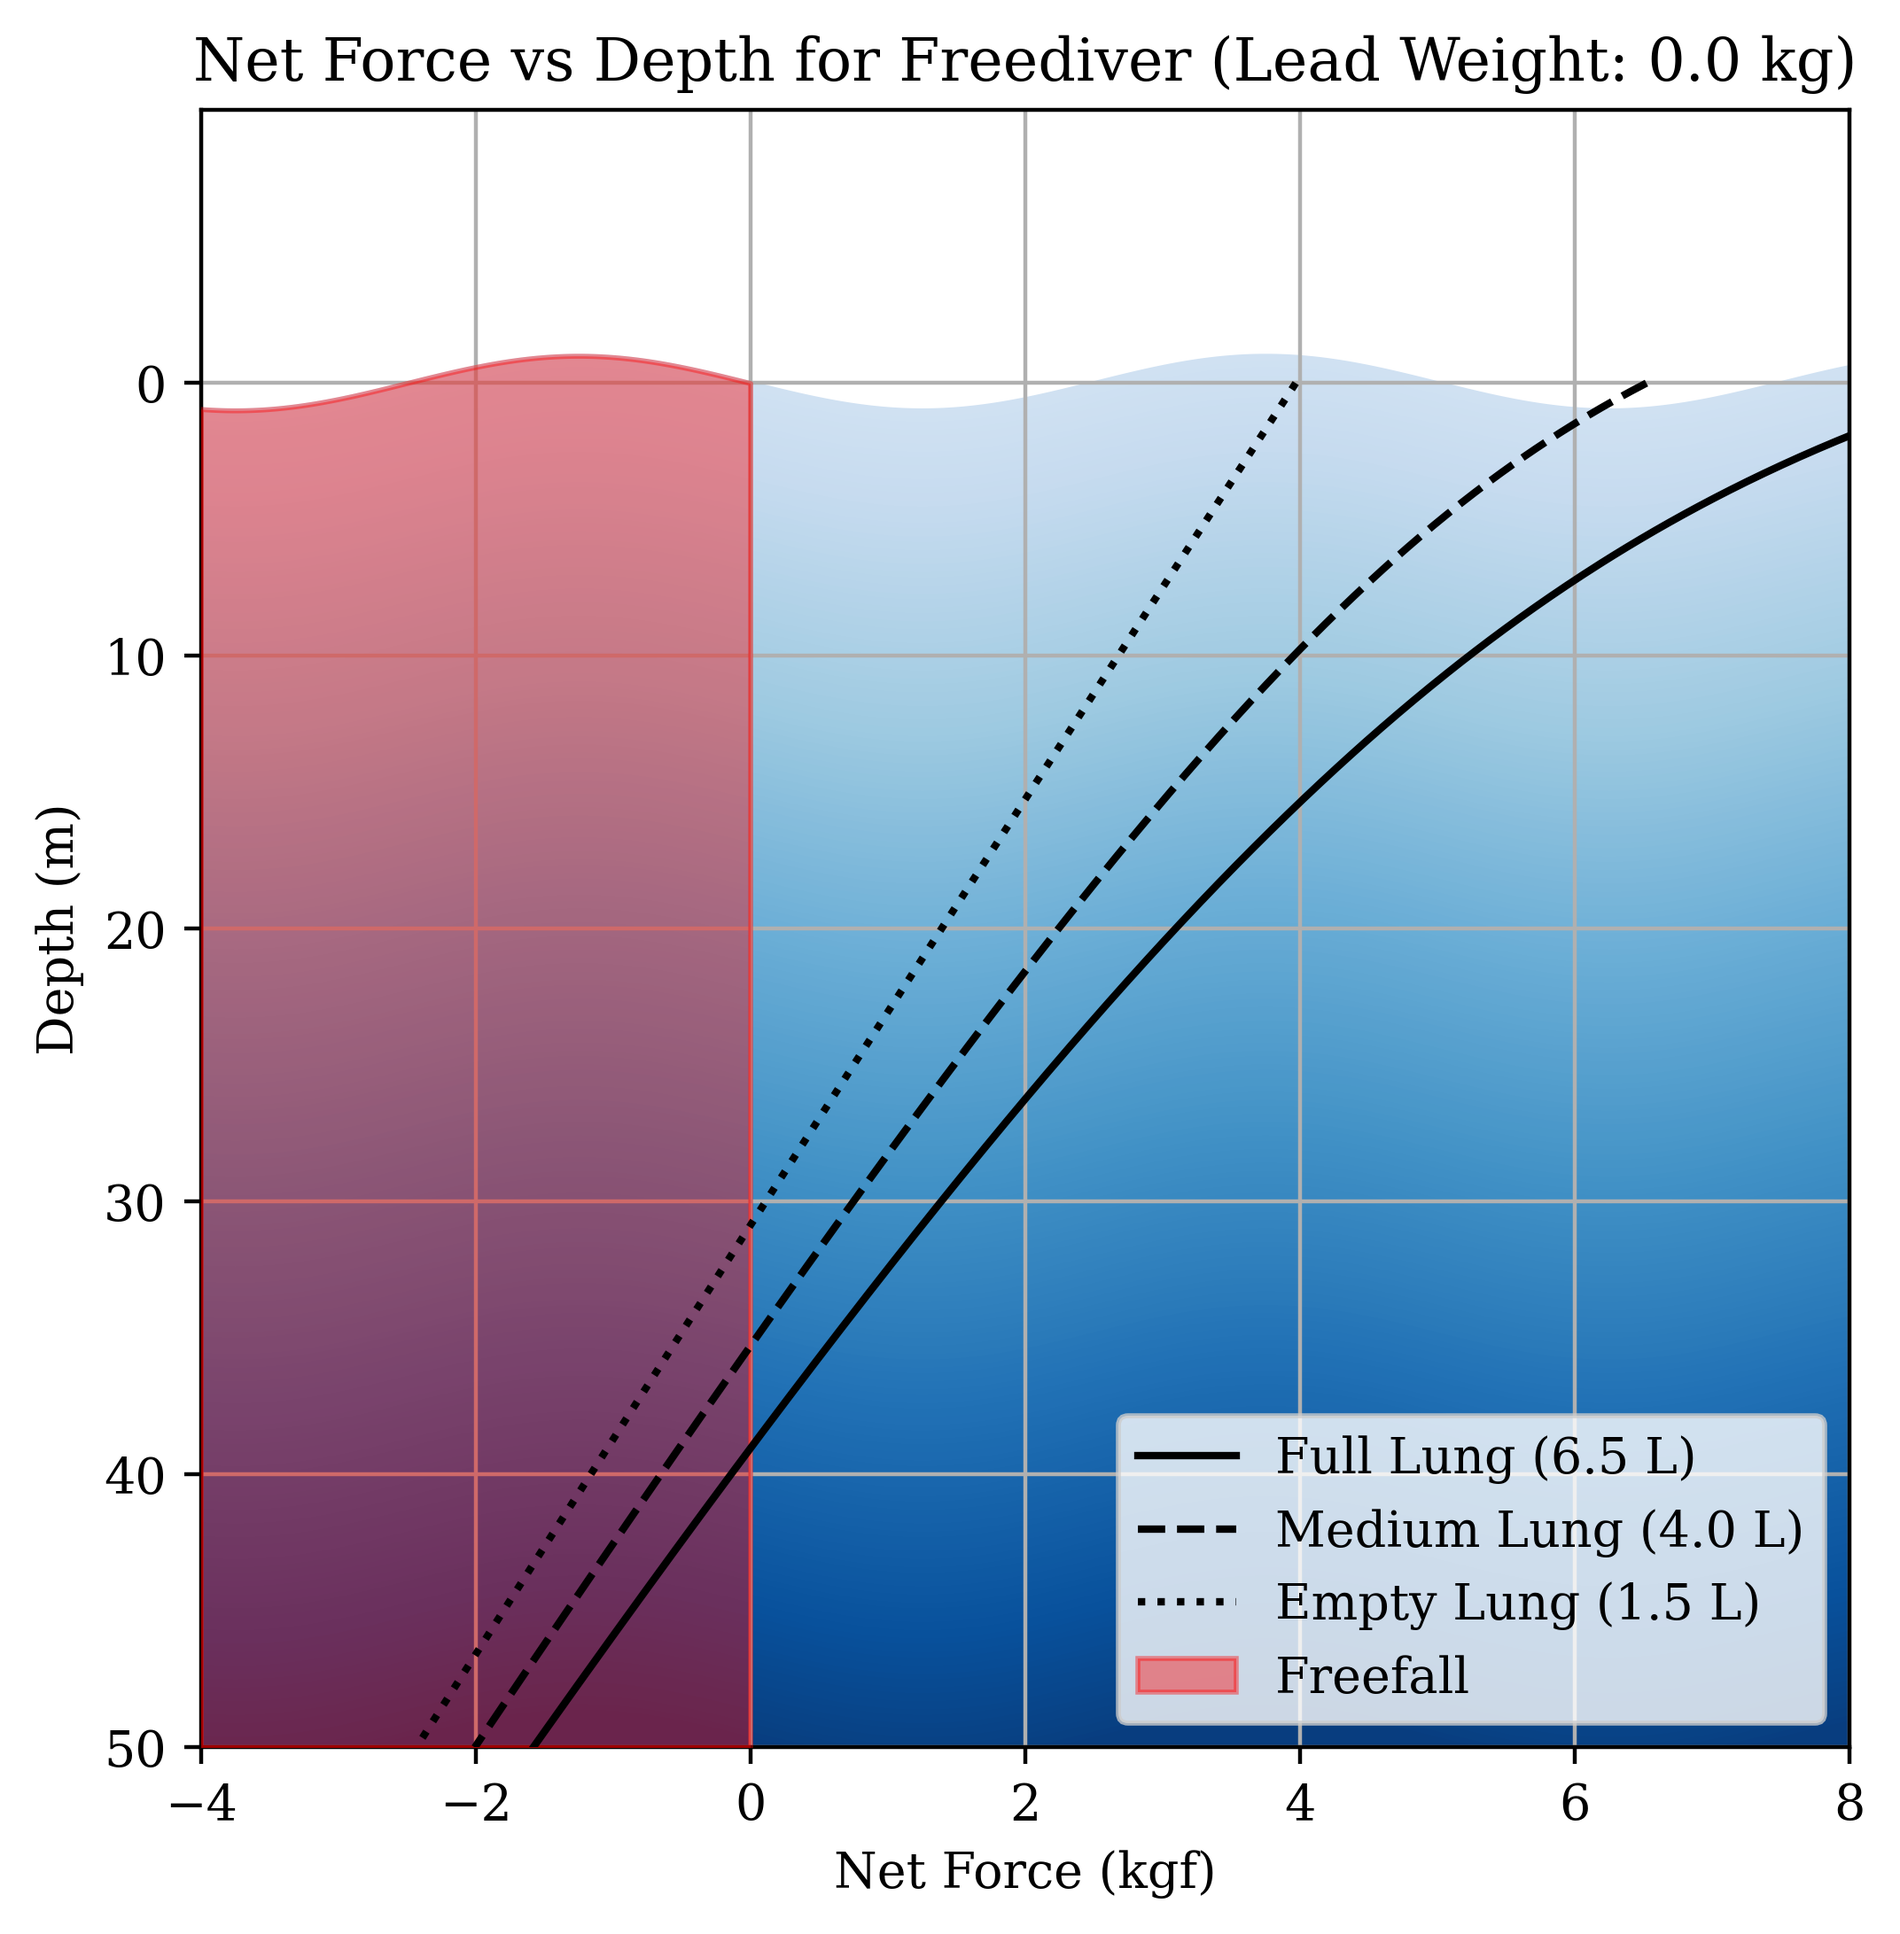
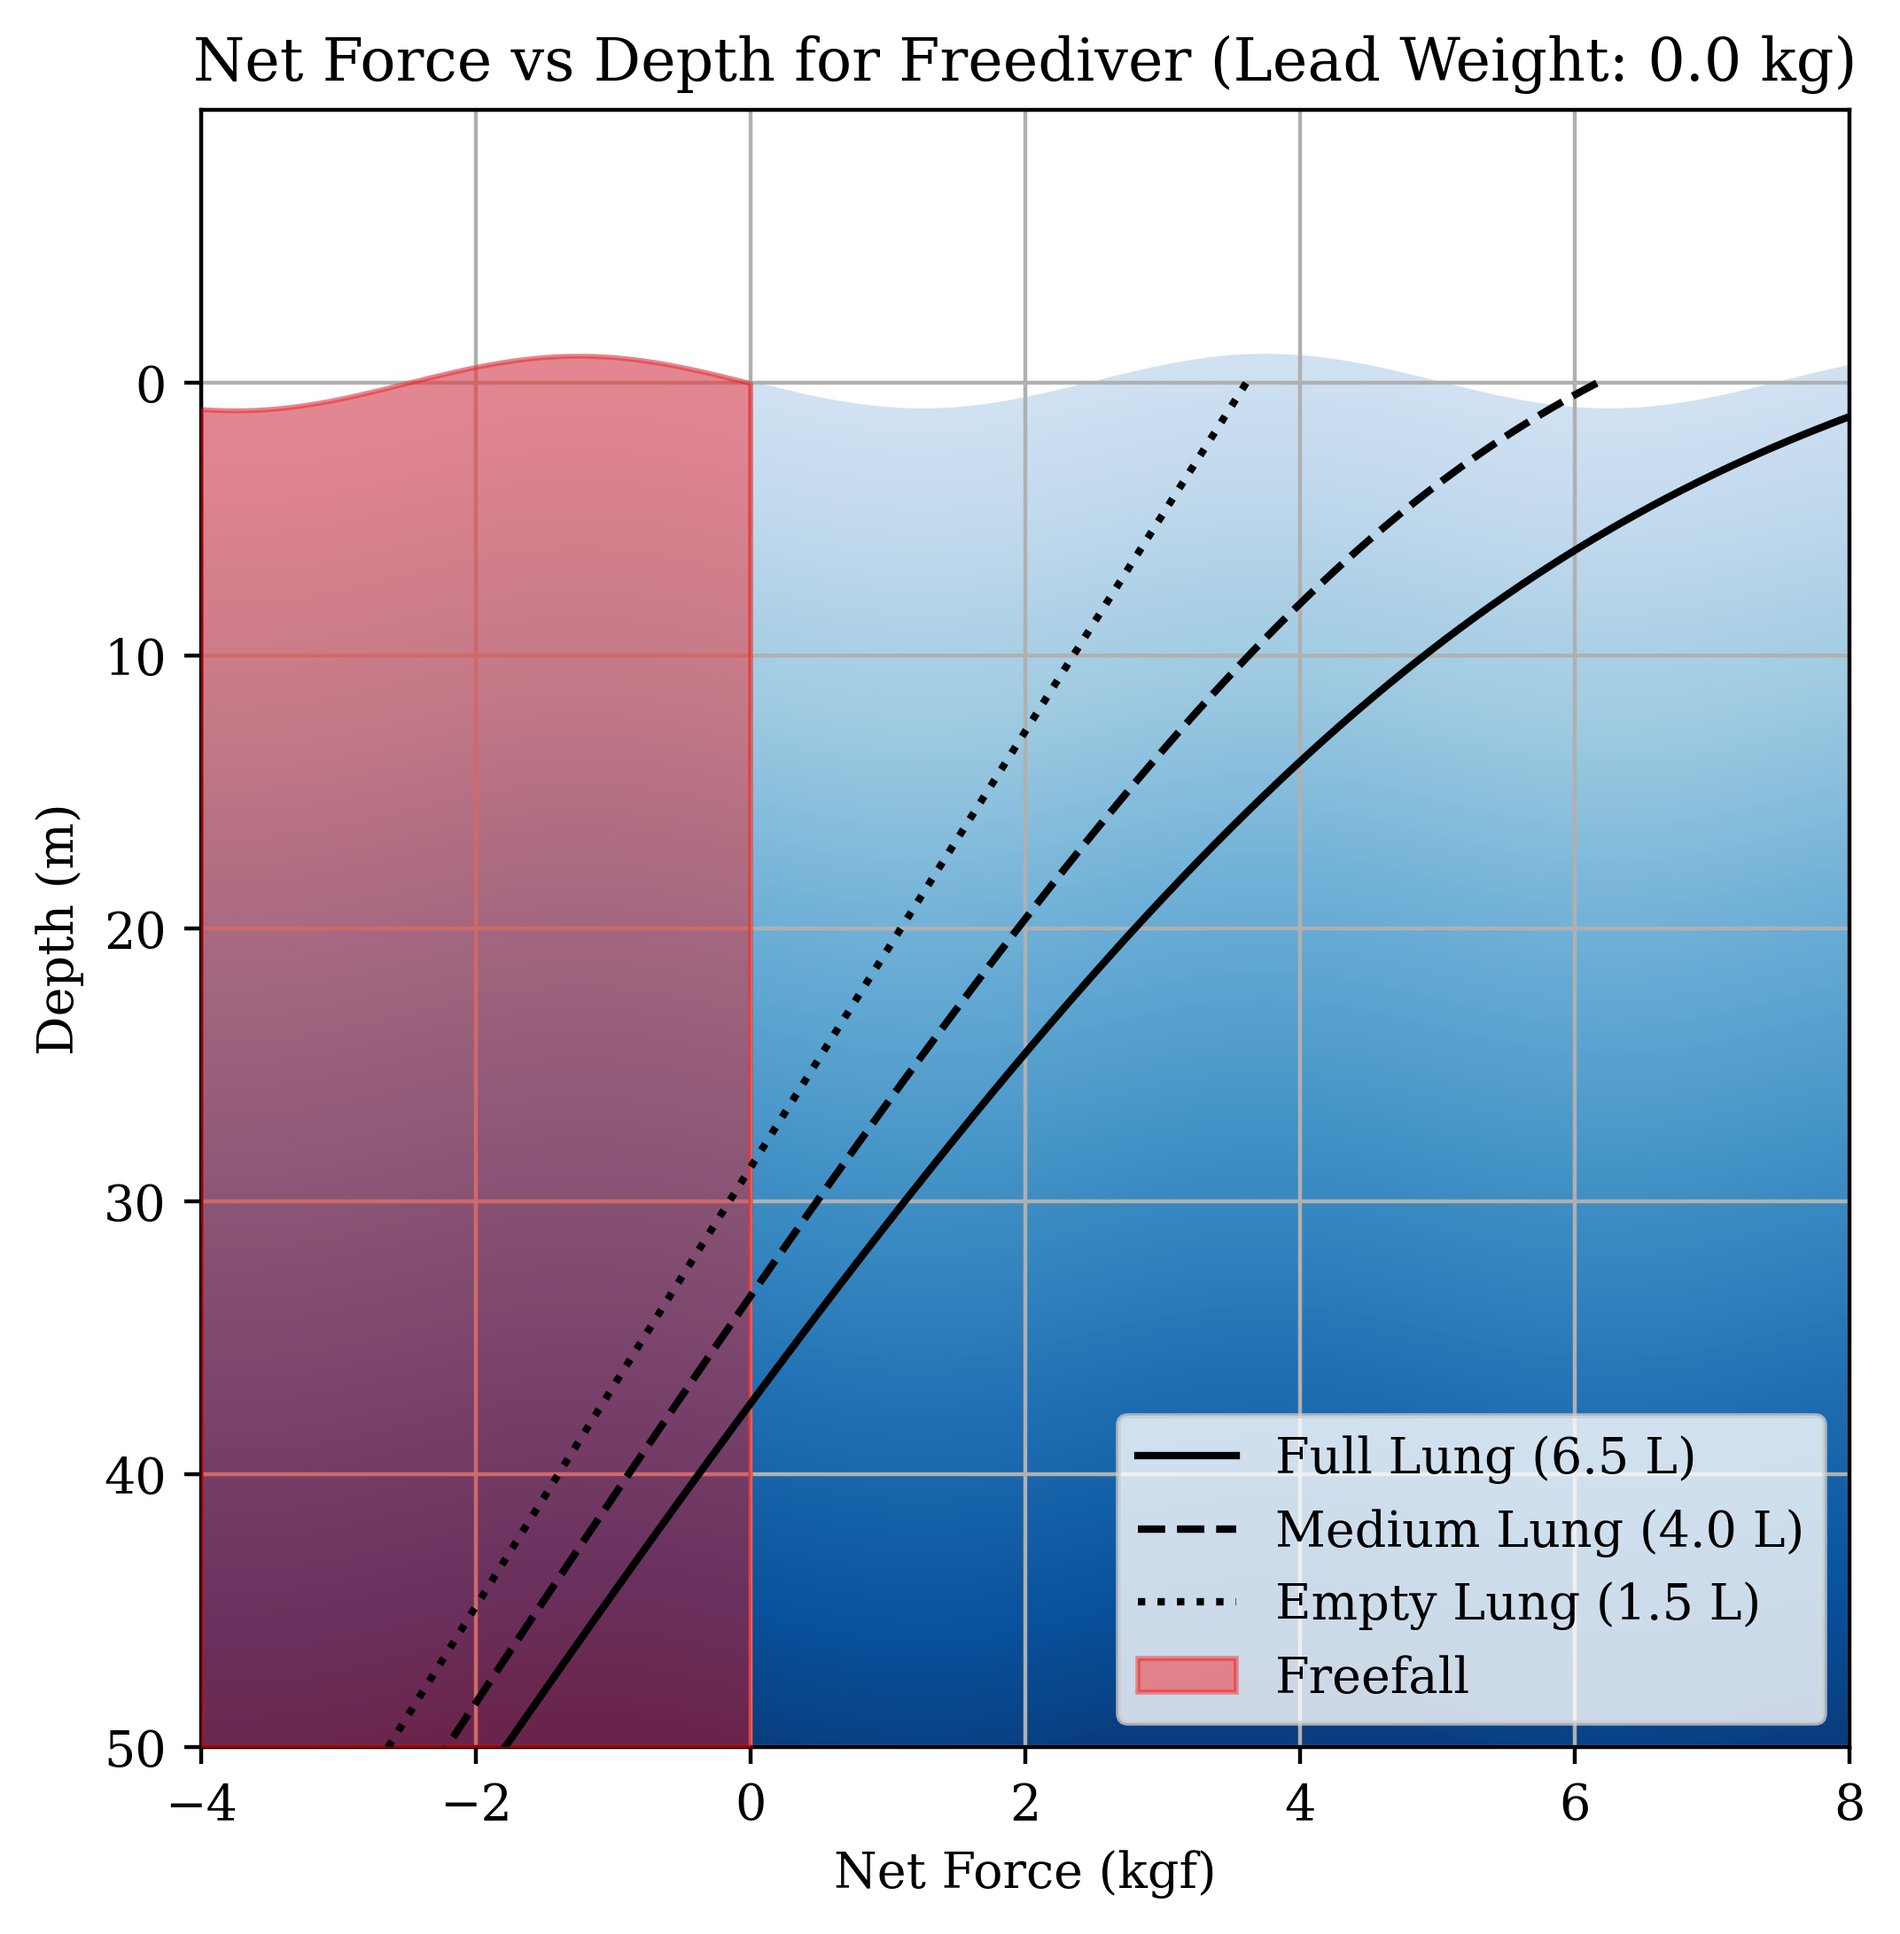
Added energy usage calculator and improved physics and documentation

diff --git a/freediving.py b/freediving.py
@@ -12,7 +12,7 @@ def get_salinity_and_density(water_type, temperature):
     return calculate_seawater_density(salinity, temperature) * 1000  # Convert to kg/m^3
 
 
-def plot_buoyancy_force_kgf(params):
+def plot_net_force_kgf(params, plot=False):
     # Unpack configurable x and y limits
     x_limits = params["x_limits"]
     y_limits = params["y_limits"]
@@ -31,7 +31,9 @@ def plot_buoyancy_force_kgf(params):
         "empty_lung": {"linestyle": ":", "label": f"Empty Lung ({params['lung_volumes']['empty_lung']} L)"},
     }
 
-    plt.figure(figsize=(6, 6))
+    if plot:
+        plt.figure(figsize=(6, 6))
+
     net_force_curves = {}
 
     for condition, lung_volume in params["lung_volumes"].items():
@@ -55,17 +57,19 @@ def plot_buoyancy_force_kgf(params):
                 snorkel_volume = params["snorkel_mask_volume"]
                 weight_volume = params["lead_weight"] / 11340  # Volume of lead in m^3
 
+                # Total displacement volume includes lead volume (since it displaces water)
                 total_displacement_volume = (
-                    volume_fat / (1 + d * 0.1/100)
-                    + volume_lean / (1 + d * 0.05/100)
+                    volume_fat / (1 + d * 0.1 / 100)
+                    + volume_lean / (1 + d * 0.05 / 100)
                     + lung_volume_at_depth
                     + wetsuit_volume_at_depth
                     + snorkel_volume
-                ) * 1e-6 - weight_volume  # Convert to m^3, subtract weight volume
+                    + weight_volume * 1e6  # Add lead displacement (convert to cm^3)
+                ) * 1e-6  # Convert total to m^3
 
                 # Calculate forces
-                F_buoyancy = total_displacement_volume * params["seawater_density"] * 9.81  # Newtons
-                F_weight = (params["mass"] + params["wetsuit_mass"] + params["lead_weight"]) * 9.81  # Newtons
+                F_buoyancy = total_displacement_volume * params["seawater_density"] * 9.81  # Buoyant force in N
+                F_weight = (params["mass"] + params["wetsuit_mass"] + params["lead_weight"]) * 9.81  # Gravitational force in N
                 net_force_kgf = (F_buoyancy - F_weight) / 9.81  # Convert to kgf
 
             net_forces_kgf.append(net_force_kgf)
@@ -73,69 +77,77 @@ def plot_buoyancy_force_kgf(params):
         net_force_curves[condition] = net_forces_kgf
 
         # Plot net force vs. depth
-        plt.plot(
-            net_forces_kgf,
-            depths,
-            styles[condition]["linestyle"],
-            label=styles[condition]["label"],
-            color="black",
-            zorder=9,
-        )
 
-    # Add wavy water surface
-    x_waves = np.linspace(x_limits[0], x_limits[1], 1000)
-    y_waves = 1.0 * np.sin(2 * np.pi * x_waves / 5)
+        if plot:
+            plt.plot(
+                net_forces_kgf,
+                depths,
+                styles[condition]["linestyle"],
+                label=styles[condition]["label"],
+                color="black",
+                zorder=9,
+            )
 
-    # Create gradient shading for the ocean below the wavy surface
-    gradient_depths = np.linspace(0, params["y_limits"][0], 500)  # Depth levels for gradient
-    gradient_colors = plt.cm.Blues(np.linspace(0.2, 0.95, len(gradient_depths)))  # Gradient colors
 
-    # Plot gradient shading
-    for i in range(len(gradient_depths) - 1):
+    if plot:
+
+        # Add wavy water surface
+        x_waves = np.linspace(x_limits[0], x_limits[1], 1000)
+        y_waves = 1.0 * np.sin(2 * np.pi * x_waves / 5)
+
+        # Create gradient shading for the ocean below the wavy surface
+        gradient_depths = np.linspace(0, params["y_limits"][0], 500)  # Depth levels for gradient
+        gradient_colors = plt.cm.Blues(np.linspace(0.2, 0.95, len(gradient_depths)))  # Gradient colors
+
+        # Plot gradient shading
+        for i in range(len(gradient_depths) - 1):
+            plt.fill_between(
+                x_waves,
+                y_waves + gradient_depths[i],  # Top boundary: wavy surface + current depth
+                params["y_limits"][0],  # Bottom boundary: deepest depth (e.g., 100 m)
+                color=gradient_colors[i],  # Gradient color for this level
+                zorder=0,
+            )
+
+        # Add freefall shading below the wavy surface
+        freefall_x = x_waves[x_waves <= 0]  # Restrict x to the freefall region (e.g., -5 to 0)
+        freefall_y_top = y_waves[:len(freefall_x)]  # Corresponding y values for the same region
+
         plt.fill_between(
-            x_waves,
-            y_waves + gradient_depths[i],  # Top boundary: wavy surface + current depth
+            freefall_x,
+            freefall_y_top,         # Top boundary: wavy surface
             params["y_limits"][0],  # Bottom boundary: deepest depth (e.g., 100 m)
-            color=gradient_colors[i],  # Gradient color for this level
-            zorder=0,
+            color="red",
+            alpha=0.4,
+            zorder=7,
+            label="Freefall",
         )
 
-    # Add freefall shading below the wavy surface
-    freefall_x = x_waves[x_waves <= 0]  # Restrict x to the freefall region (e.g., -5 to 0)
-    freefall_y_top = y_waves[:len(freefall_x)]  # Corresponding y values for the same region
+        # Formatting
+        plt.gca().invert_yaxis()  # Invert y-axis to make depth positive downward
+        yticks = np.arange(0, abs(params["y_limits"][0]) + 1, 10)  # Generate ticks at intervals of 10
+        plt.yticks(yticks)  # Set the y-ticks
+        plt.xlabel("Net Force (kgf)")
+        plt.ylabel("Depth (m)")
+        plt.title(f"Net Force vs Depth for Freediver (Lead Weight: {params['lead_weight']} kg)")
+        plt.legend(loc="lower right")
+        plt.grid()
+        plt.xlim(x_limits)
+        plt.ylim(y_limits)
+        plt.savefig("example_result.pdf", dpi=400, bbox_inches="tight")
+        plt.savefig("example_result.png", dpi=400, bbox_inches="tight")
+        plt.show()
 
-    plt.fill_between(
-        freefall_x,
-        freefall_y_top,         # Top boundary: wavy surface
-        params["y_limits"][0],  # Bottom boundary: deepest depth (e.g., 100 m)
-        color="red",
-        alpha=0.4,
-        zorder=7,
-        label="Freefall",
-    )
 
-    # Formatting
-    plt.gca().invert_yaxis()  # Invert y-axis to make depth positive downward
-    yticks = np.arange(0, abs(params["y_limits"][0]) + 1, 10)  # Generate ticks at intervals of 10
-    plt.yticks(yticks)  # Set the y-ticks
-    plt.xlabel("Net Force (kgf)")
-    plt.ylabel("Depth (m)")
-    plt.title(f"Net Force vs Depth for Freediver (Lead Weight: {params['lead_weight']} kg)")
-    plt.legend(loc="lower right")
-    plt.grid()
-    plt.xlim(x_limits)
-    plt.ylim(y_limits)
-    plt.savefig("example_result.pdf", dpi=400, bbox_inches="tight")
-    plt.savefig("example_result.png", dpi=400, bbox_inches="tight")
-    plt.show()
+    return depths, net_force_curves
 
 
 
 # Example parameters
 params = {
-    "mass": 73,  # kg
+    "mass": 70,  # mass of diver and glasses, excluding wetsuit and lead mass, in kg
     "height": 1.84,  # meters (for context only)
-    "body_fat_percentage": 0.23,  # 0.23 is a fudge factor to ensure neutral buoyancy with hot spring water, real approximate fat percentage (13-15%) if waist 79 cm, neck 36 cm
+    "body_fat_percentage": 0.20,  # 0.22 is a fudge factor to ensure neutral buoyancy with hot spring water, real approximate fat percentage (13-15%) if waist 79 cm, neck 36 cm
     "lung_volumes": {
         "full_lung": 6.5,  # liters
         "medium_lung": 4.0,  # liters
@@ -153,4 +165,4 @@ params = {
     "y_limits": [50, -10],
 }
 
-plot_buoyancy_force_kgf(params)
+plot_net_force_kgf(params, plot=False)

diff --git a/README.md b/README.md
@@ -83,7 +83,7 @@ The displacement volume ($V_{\text{disp}}$) considers:
    This volume is static and unaffected by depth.
 
 5. **Total Volume**:
-   $$V_{\text{disp}} = V_{\text{fat}} + V_{\text{lean}} + V_l(d) + V_w(d) + V_s - \frac{m_L}{\rho_{\text{lead}}}$$
+   $$V_{\text{disp}} = V_{\text{fat}} + V_{\text{lean}} + V_l(d) + V_w(d) + V_s + \frac{m_L}{\rho_{\text{lead}}}$$
 
 #### Seawater Density
 Water density ($\rho_w$) is estimated based on salinity ($S$) and temperature ($T$):
